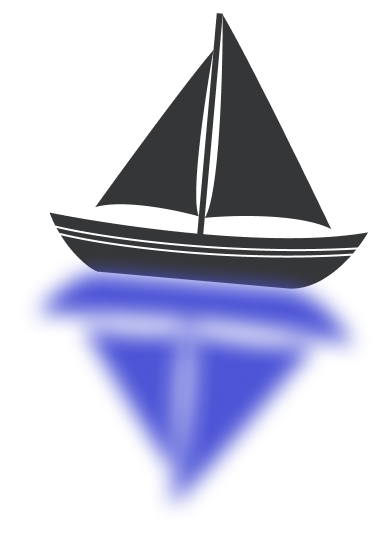
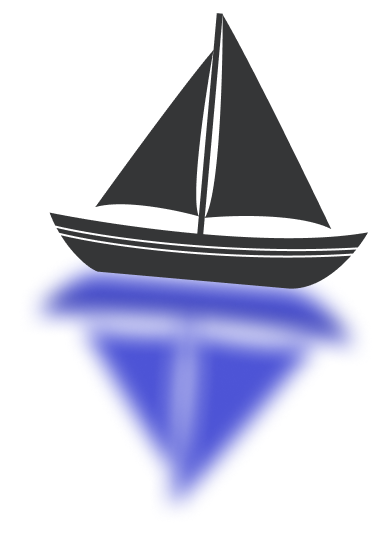
라이트 모드, 컨택트 - 배 이미지 추가

Changed region(s): [[0.2171, 0.4741, 0.8062, 0.5333]]

diff --git a/docs/common.css b/docs/common.css
@@ -715,6 +715,14 @@ body {
   animation: boat 3s infinite linear;
 }
 
+.contact .img>.img-boat > .dark {
+  display: block;
+}
+
+.contact .img>.img-boat > .light {
+  display: none;
+}
+
 .contact .img>.img-sea>div {
   position: absolute;
   top: 630px;
@@ -742,7 +750,6 @@ body {
   animation: wave3 10.2s infinite linear;
   transform: rotate(20deg);
 }
-
 /* 컨택트 - 바다 이미지 끝 */
 
 /* 컨택트 - 카피라이트 시작 */
@@ -1140,6 +1147,14 @@ body {
 /* 컨택트 - 바다 이미지 */
 .site-wrap.mode .contact .img>.img-sea>div {
   background: radial-gradient(#4089fa 64%, #a0efff 72%);
+}
+
+.site-wrap.mode .contact .img>.img-boat > .dark {
+  display: none;
+}
+
+.site-wrap.mode .contact .img>.img-boat > .light {
+  display: block;
 }
 
 .site-wrap.mode .site-wrap.mode .site-wrap.mode

diff --git a/docs/index.html b/docs/index.html
@@ -552,7 +552,8 @@
           </div>
           <div class="img">
             <div class="img-boat">
-              <img src="resource/07_contact_boat.png" alt="">
+              <img src="resource/07_contact_boat.png" alt="" class="dark">
+              <img src="resource/10_contact_boat_light.png" alt="" class="light">
             </div>
             <div class="img-sea">
               <div class="img-wave-1"></div>
